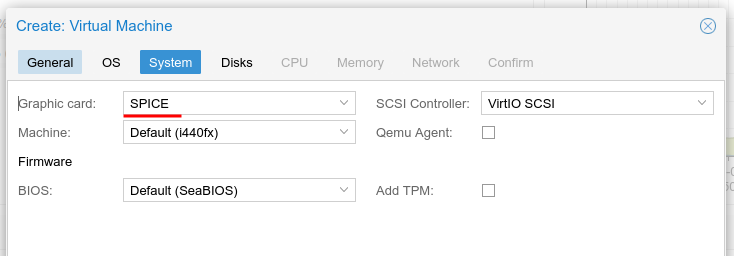
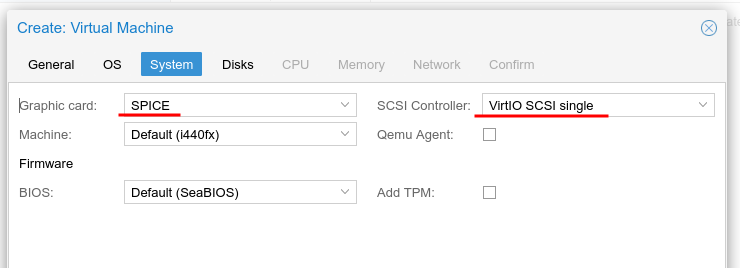
truenas reboot hang and corrected some type

diff --git a/_posts/2022-03-07-home-server-2022-and-migration.md b/_posts/2022-03-07-home-server-2022-and-migration.md
@@ -330,7 +330,7 @@ Now we will create a new Virtual Machine (VM), I have included a step-by-step sc
 
 ![hs22-truenas-create-vm-1](/assets/images/posts/hs22-truenas-create-vm-1.png)
 
-Ensure that start at boot is enabled
+Ensure that start at boot is enabled, I have provided a Start/Shutdown order of 1 with a Startup delay of 180 to allow the TrueNAS VM to boot correctly, before starting any other virtual machines or containers, which may rely on TrueNAS storage.
 
 ![hs22-truenas-create-vm-2](/assets/images/posts/hs22-truenas-create-vm-2.png)
 
@@ -338,7 +338,7 @@ As TrueNAS is FreeBSD based, set the Guest OS type to "Other".
 
 ![hs22-truenas-create-vm-3](/assets/images/posts/hs22-truenas-create-vm-3.png)
 
-I have set the graphic card to use "SPICE" as this has a minor positive performance impact.
+I have set the graphic card to use "SPICE" as this has a minor positive performance impact. The SCSI controller has been configured to VirtIO SCSI Single for best performance as per Proxmox documentation.
 
 ![hs22-truenas-create-vm-4](/assets/images/posts/hs22-truenas-create-vm-4.png)
 
@@ -347,9 +347,16 @@ For the disks, following [Proxmox documentation](https://pve.proxmox.com/pve-doc
 * "A SCSI controller of type VirtIO SCSI is the recommended setting if you aim for performance and is automatically selected for newly created Linux VMs"
 * "If you aim at maximum performance, you can select a SCSI controller of type VirtIO SCSI single which will allow you to select the IO Thread option."
 
+
+
+* **SSD emulation** - "If you would like a drive to be presented to the guest as a solid-state drive rather than a rotational hard disk, you can set the SSD emulation option on that drive."
+* **IO Thread** - "Qemu creates one I/O thread per storage controller, rather than a single thread for all I/O. This can increase performance when multiple disks are used and each disk has its own storage controller."
+
 ![hs22-truenas-create-vm-5](/assets/images/posts/hs22-truenas-create-vm-5.png)
 
-I have plenty of CPU threads therefore I have given 4 cores to my TrueNAS VM, I have also changed the type to "host", this will allow the actual CPU information to be passed through to the TrueNAS instance.
+I have plenty of CPU threads therefore I have given 4 cores to my TrueNAS VM, I initially changed the type to "host", to allow the CPU information to be passed through to the TrueNAS instance, but I found that this caused the TrueNAS VM to hang on reboots, I am unsure why this was happening.
+
+**For now leave Type to the default value.**
 
 ![hs22-truenas-create-vm-6](/assets/images/posts/hs22-truenas-create-vm-6.png)
 
@@ -390,7 +397,11 @@ Ensure that the TrueNAS VM is powered off
 On the Proxmox server use the below command to identify the disks on the host server, we'll need this information to add the disks to our TrueNAS VM.
 
 ```bash
-apt install lshwlsblk |awk 'NR==1{print $0" DEVICE-ID(S)"}NR>1{dev=$1;printf $0" ";system("find /dev/disk/by-id -lname \"*"dev"\" -printf \" %p\"");print "";}'|grep -v -E 'part|lvm'
+apt install lshw
+```
+
+```bash
+lsblk |awk 'NR==1{print $0" DEVICE-ID(S)"}NR>1{dev=$1;printf $0" ";system("find /dev/disk/by-id -lname \"*"dev"\" -printf \" %p\"");print "";}'|grep -v -E 'part|lvm'
 ```
 
 ![hs22-truenas-add-disks-1](/assets/images/posts/hs22-truenas-add-disks-1.png)
@@ -415,6 +426,10 @@ qm set 100 -scsi4 /dev/disk/by-id/ata-WDC_xxxxxxxxxxx-xxxxxx_xxxxxxxx
 As shown in the figure below the command was issued and disks were added to my TrueNAS VM.
 
 ![hs22-truenas-add-disks-2](/assets/images/posts/hs22-truenas-add-disks-2.png)
+
+This is a good time to enable `iothread` on each disk.
+
+
 
 Now we are ready to start the TrueNAS VM and continue with importing the storage pool.
 
